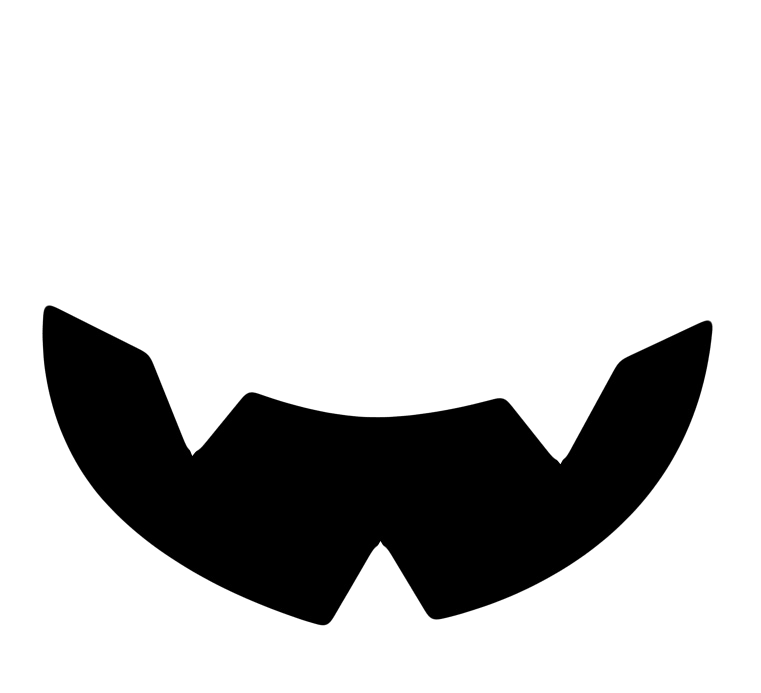
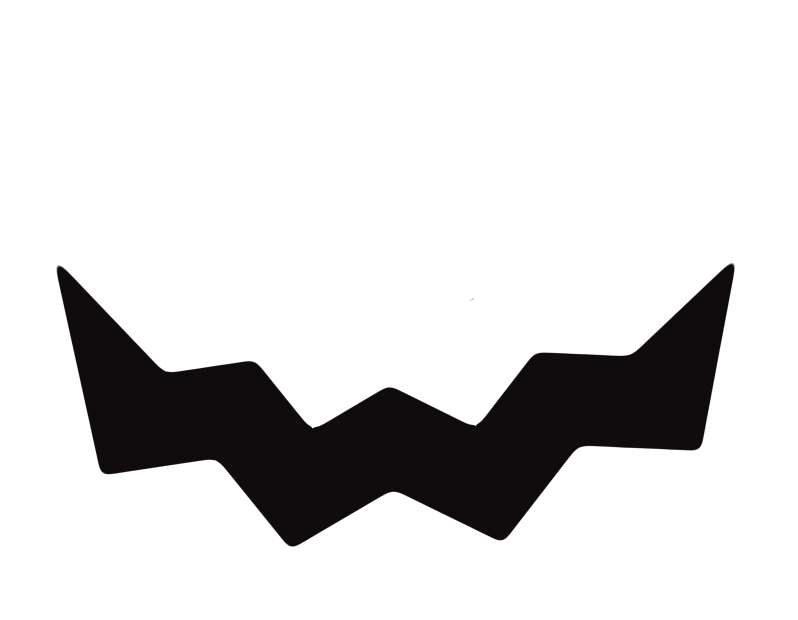
added random pumpkin generator

Changed region(s): [[0.0302, 0.429, 0.9369, 0.9194], [0.4836, 0.7661, 0.5138, 0.7968]]

diff --git a/main_code.py b/main_code.py
@@ -1,15 +1,28 @@
 import arcade
 import pyglet
+import random
+import time
 
 display = pyglet.display.get_display()
 screen = display.get_default_screen()
+
 
 screen_width = screen.width
 screen_height = screen.height
 
 eyes = ["faces/1eyes.PNG","faces/2eyes.PNG","faces/3eyes.PNG","faces/4eyes.PNG","faces/5eyes.PNG"]
 nose = ["faces/6nose.PNG","faces/7nose.PNG","faces/8nose.PNG"]
-mouth = ["faces/10mouth.PNG","faces/11mouth.PNG","faces/12mouth.PNG","faces/13mouth.PNG" ]
+mouth = ["faces/9mouth.PNG","faces/11mouth.PNG","faces/12mouth.PNG","faces/13mouth.PNG" ]
+pumpkin = "Images/pumpkin.png"
+
+start = time.time()
+
+def gen_random_pumpkins():
+    eye = random.randint(0,3)
+    nose = random.randint(0,2)
+    mouth = random.randint(0,3)
+
+    return [eye,nose,mouth]
 
 
 class MyGameWindow(arcade.Window):
@@ -26,12 +39,14 @@ class MyGameWindow(arcade.Window):
         self.curr_sprites = arcade.SpriteList()
         self.current_ob = []
 
+        self.gen_pumpkin = arcade.SpriteList()
+
         print(self.screen_width,self.screen_height)
 
         self.background = arcade.load_texture("Images\BackGround.png")
         self.table =  arcade.load_texture("Images/table.jpeg")
         self.sprite_list = arcade.SpriteList()
-        self.pumpkin = arcade.Sprite("Images/pumpkin.png",scale=0.4)
+        self.pumpkin = arcade.Sprite(pumpkin,scale=0.4)
         self.pumpkin.position = 300,180
         self.sprite_list.append(self.pumpkin)
 
@@ -68,7 +83,7 @@ class MyGameWindow(arcade.Window):
         self.nose_sprite_list.append(self.nose_sprite8)
                    # MOUTH
         self.mouth_sprite_list = arcade.SpriteList()
-        self.mouth_sprite9 = arcade.Sprite(mouth[-1],scale=0.3)
+        self.mouth_sprite9 = arcade.Sprite(mouth[0],scale=0.3)
         self.mouth_sprite9.position = self.mouthpos[0]
         self.mouth_sprite_list.append(self.mouth_sprite9)
 
@@ -130,9 +145,25 @@ class MyGameWindow(arcade.Window):
 
             self.collision = (False,(None,None))
 
+        if not self.gen_pumpkin and time.time() - start > 10:    
+            lst = gen_random_pumpkins()
+            self.p = arcade.Sprite(pumpkin,scale=0.4)
+            self.p.position = 600,500
+            self.gen_pumpkin.append(self.p)
+            self.e = arcade.Sprite(eyes[lst[0]],scale=0.2)
+            self.e.position = self.p.position
+            self.gen_pumpkin.append(self.e)
+            self.n = arcade.Sprite(nose[lst[1]],scale=0.3)
+            self.n.position = self.p.position
+            self.gen_pumpkin.append(self.n)
+            self.m = arcade.Sprite(mouth[lst[2]],scale=0.3)
+            self.m.position = self.p.position
+            self.gen_pumpkin.append(self.m)
+
 
         self.sprite_list.draw()
         self.curr_sprites.draw()
+        self.gen_pumpkin.draw()
         self.eye_sprite_list.draw()
         self.nose_sprite_list.draw()
         self.mouth_sprite_list.draw()
